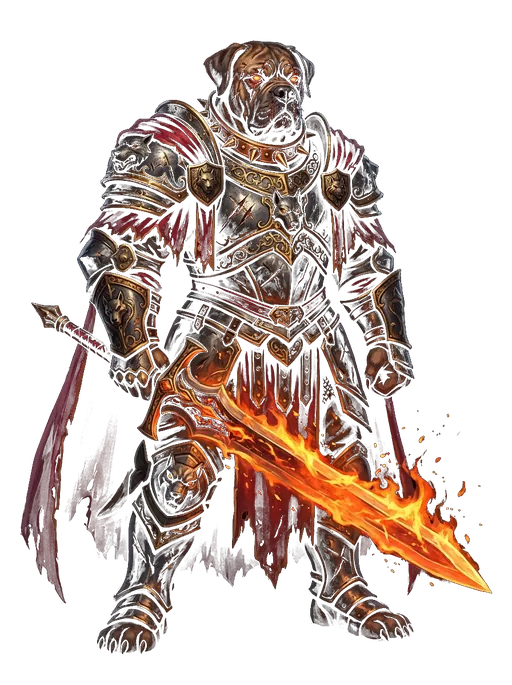
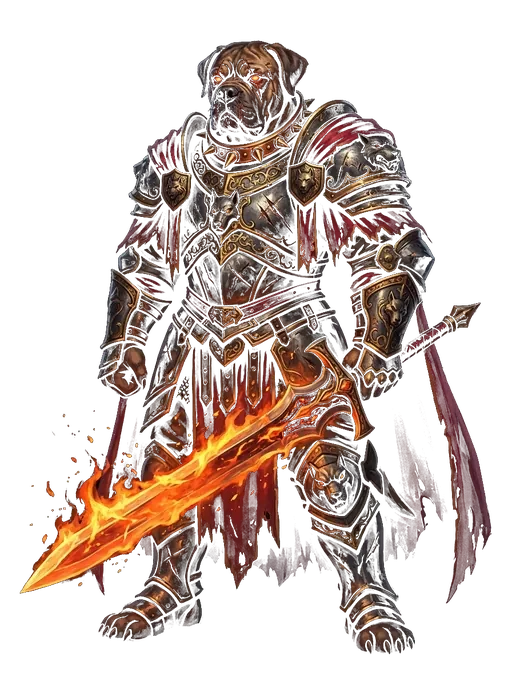
fix(pve): bake+lock ch3 pitboss face left
Re-bake redd-pitboss-cutout (Алый Вожак) pixel-LEFT; keep in
MONSTER_NATIVE_FACE_LEFT; cache-bust art ?v=d040ch3pb + app.js.

diff --git a/client/web-hud/public/app.js b/client/web-hud/public/app.js
@@ -3205,7 +3205,7 @@ const MONSTER_BATTLE_BY_FACTION = {
     tank: ["/stitch-assets/monsters/battle/redd-tank-cutout.webp?v=d040ch3tf"],
     fighter: ["/stitch-assets/monsters/battle/redd-fighter-cutout.webp?v=d040ch3tf"],
     support: ["/stitch-assets/monsters/battle/redd-support-cutout.webp"],
-    pitboss: ["/stitch-assets/monsters/battle/redd-pitboss-cutout.webp"],
+    pitboss: ["/stitch-assets/monsters/battle/redd-pitboss-cutout.webp?v=d040ch3pb"],
   },
   zombies: {
     // Ch4 refs: axe guardian / cleaver butcher / dagger plague-carrier; scythe pitboss.
@@ -3319,8 +3319,8 @@ const DUMMY_NATIVE_FACE_LEFT = new Set([
 // Only assets authored aiming/looking LEFT. Default native = RIGHT → flip for desired left.
 // Do NOT list: ranger-a, tank-b, wolf-tank/pitboss (shield/glow RIGHT → flip).
 // Pixel-LEFT locks (listed so CSS never mirrors them away):
-// fighter-h (ch1), wolf-support (ch2), redd-tank/fighter re-baked (ch3 Алый щитоносец / Пёс-углежуй),
-// redd-support/pitboss, zombie-pitboss.
+// fighter-h (ch1), wolf-support (ch2), redd-tank/fighter (ch3), redd-pitboss (Алый Вожак) re-baked,
+// redd-support, zombie-pitboss.
 const MONSTER_NATIVE_FACE_LEFT = new Set([
   "assassin-b",
   "fighter-f",

diff --git a/client/web-hud/public/index.html b/client/web-hud/public/index.html
@@ -6846,6 +6846,6 @@
   </aside>
 
   <nav id="hubTabs" class="hidden" aria-hidden="true"></nav>
-  <script type="module" src="/app.js?v=d040ch3tf"></script>
+  <script type="module" src="/app.js?v=d040ch3pb"></script>
 </body>
 </html>

diff --git a/client/web-hud/public/stitch-assets/monsters/battle/README.md b/client/web-hud/public/stitch-assets/monsters/battle/README.md
@@ -17,7 +17,7 @@ Ch1 dogs → grey armored cutouts (`tank-b` / `fighter-h` / `ranger-a`, pitboss 
 `fighter-h` = обычный пёс (dual clubs), pixel-authored facing **left** + `MONSTER_NATIVE_FACE_LEFT` (locked). Do not map ch1 to `fighter-b` — that red dual-axe plate is ch3.
 Ch2 wolves → RGBA `wolf-*-cutout.webp` (tank/fighter/support/pitboss). Do not reintroduce RGB studio plates.
 `wolf-support-cutout` (Шаман инея) pixel-authored facing **left** + `MONSTER_NATIVE_FACE_LEFT` (locked).
-Ch3 red dogs → RGBA `redd-*-cutout.webp` (shield tank / dual-axe fighter / flaming-sickle support / flaming-sword pitboss). All four listed in `MONSTER_NATIVE_FACE_LEFT`. `redd-tank` / `redd-fighter` re-baked pixel-LEFT (Andrew: стояли спиной к бою); support already left.
+Ch3 red dogs → RGBA `redd-*-cutout.webp` (shield tank / dual-axe fighter / flaming-sickle support / flaming-sword pitboss). All four listed in `MONSTER_NATIVE_FACE_LEFT`. `redd-tank` / `redd-fighter` / `redd-pitboss` (Алый Вожак) re-baked pixel-LEFT; support already left.
 Ch4 zombies → RGBA `zombie-*-cutout.webp` (axe tank / cleaver fighter / dagger support / scythe pitboss).
 Ch5 ghosts → RGBA `ghost-*-cutout.webp` (flail-shield tank / scimitar fighter / shaman support / banner-sword pitboss).
 Load/fight backdrops: `pve-load/chapter-2-frost.webp` + `pve-fight/ch2-{entrance,tunnel,boss}.webp` (order locked).
